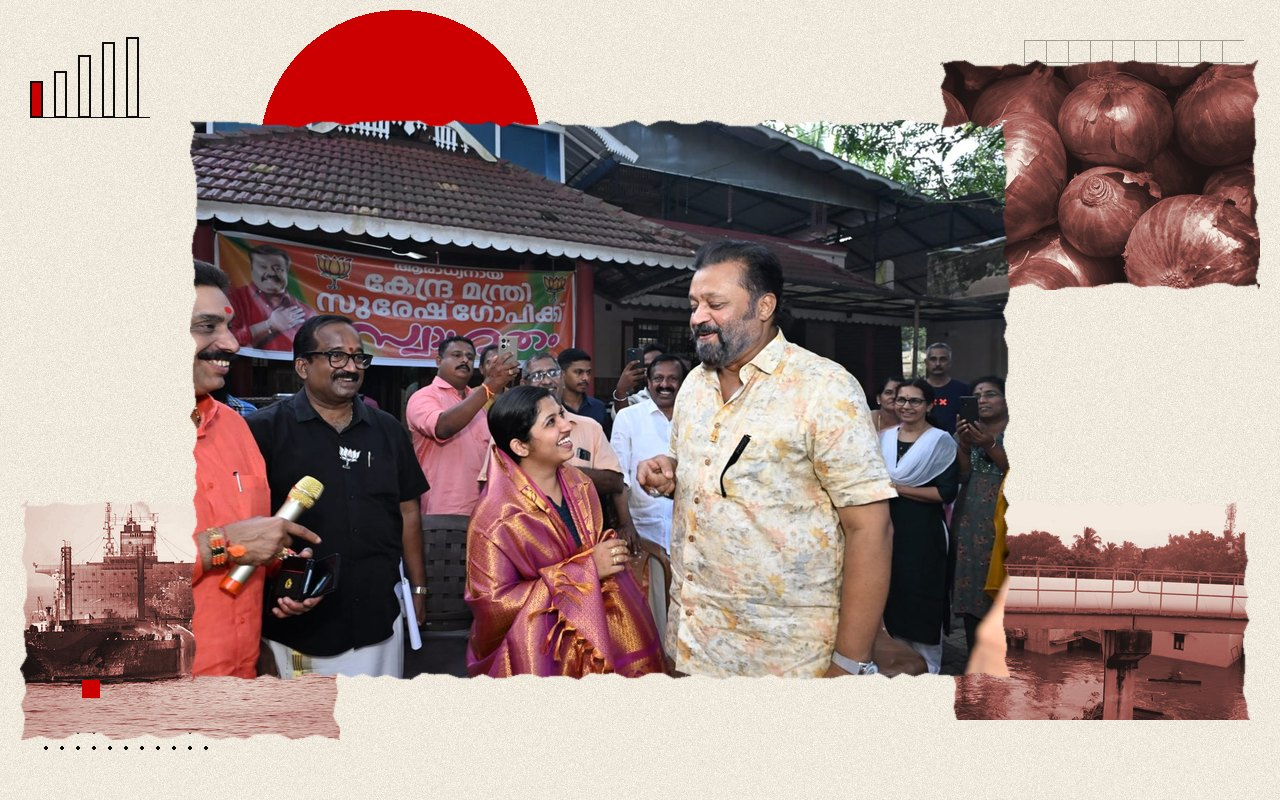
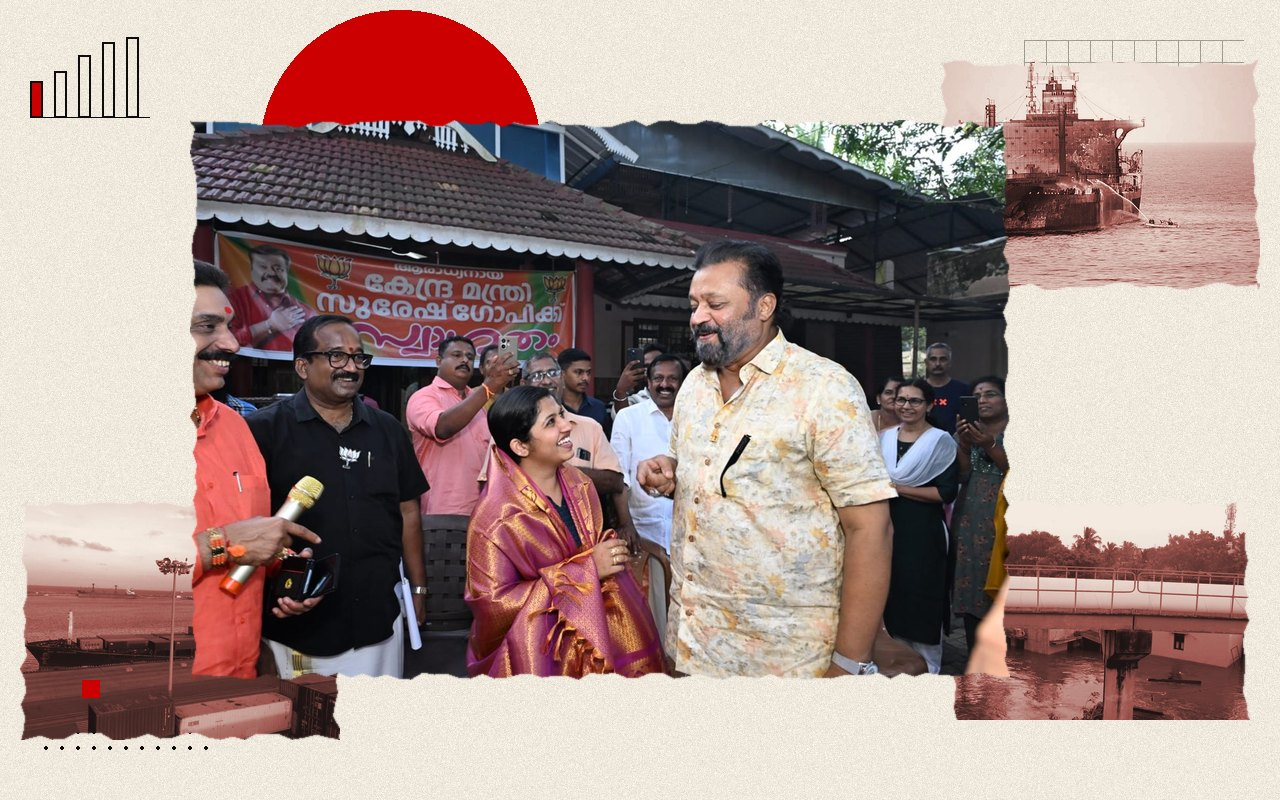
Hourly 08:00 IST (collage fix): Suresh Gopi collage without the onions tile
The look at the live collages found an onions tile (from the retail inflation story) behind the Suresh Gopi fuel price story. Its related list now leads with the tanker, BPCL refinery and ethanol stories (retail inflation and farm conference dropped from related); the collage was rebuilt with a tanker, a port and Chennai tiles. Published after 10:00 so the hourly homepage rotation passes (the 09:37 attempt matched the live top); England Adelaide ODI dropped from the headlines to clear a repeat.

Claude-Session: https://claude.ai/code/session_01C3zerVfLk1b1sp7mX4SPCD

Changed region(s): [[0.7188, 0.0625, 1.0, 0.375], [0.0, 0.625, 0.2812, 0.9375]]

diff --git a/content/hi/news/suresh-gopi-fuel-price-cut-not-possible-42000-crore-oil-losses.md b/content/hi/news/suresh-gopi-fuel-price-cut-not-possible-42000-crore-oil-losses.md
@@ -31,7 +31,7 @@ infographic:
     - {icon: gas-pump, value: "₹7", label: "120 डॉलर के तेल पर डीजल में बढ़ोतरी; ₹43 केंद्र ने सहे"}
     - {icon: warning, value: "$95.89", label: "13 नवंबर को ब्रेंट, युद्ध से पहले करीब 72 डॉलर"}
   source: "केंद्रीय मंत्री सुरेश गोपी, 16 नवंबर 2026; पीएमओ, 12 नवंबर 2026"
-related: [karnataka-31-2-per-cent-ethanol-claim-oil-companies-reject-e20-bis, modi-bharat-agriculture-conference-natural-farming-mother-earth-fertiliser, wpi-inflation-october-data-due-monday-rbi-december, retail-inflation-october-2026-6-09-two-year-high, bpcl-q2-profit-falls-21-per-cent-marketing-margins-lpg, hormuz-three-tankers-mines-predator-qeshm-brent-india]
+related: [hormuz-three-tankers-mines-predator-qeshm-brent-india, bpcl-q2-profit-falls-21-per-cent-marketing-margins-lpg, karnataka-31-2-per-cent-ethanol-claim-oil-companies-reject-e20-bis, wpi-inflation-october-data-due-monday-rbi-december]
 seo:
   title: "सुरेश गोपी: पेट्रोल-डीजल के दाम अभी नहीं घट सकते"
   description: "केंद्रीय मंत्री सुरेश गोपी ने 16 नवंबर को कहा कि तेल कंपनियों के 42,000 करोड़ रुपये के घाटे और आपूर्ति की अफरातफरी के कारण पेट्रोल-डीजल के दाम तुरंत नहीं घट सकते।"

diff --git a/content/en/news/suresh-gopi-fuel-price-cut-not-possible-42000-crore-oil-losses.md b/content/en/news/suresh-gopi-fuel-price-cut-not-possible-42000-crore-oil-losses.md
@@ -30,7 +30,7 @@ infographic:
     - {icon: gas-pump, value: "₹7", label: "diesel rise at $120 crude; ₹43 absorbed"}
     - {icon: warning, value: "$95.89", label: "Brent on November 13, against $72 before the war"}
   source: "Union minister Suresh Gopi, November 16, 2026; PMO, November 12, 2026"
-related: [karnataka-31-2-per-cent-ethanol-claim-oil-companies-reject-e20-bis, modi-bharat-agriculture-conference-natural-farming-mother-earth-fertiliser, wpi-inflation-october-data-due-monday-rbi-december, retail-inflation-october-2026-6-09-two-year-high, bpcl-q2-profit-falls-21-per-cent-marketing-margins-lpg, hormuz-three-tankers-mines-predator-qeshm-brent-india]
+related: [hormuz-three-tankers-mines-predator-qeshm-brent-india, bpcl-q2-profit-falls-21-per-cent-marketing-margins-lpg, karnataka-31-2-per-cent-ethanol-claim-oil-companies-reject-e20-bis, wpi-inflation-october-data-due-monday-rbi-december]
 seo:
   title: "Suresh Gopi: petrol, diesel price cut not possible now"
   description: "Union minister Suresh Gopi said on November 16 that petrol and diesel prices cannot be cut right away, citing ₹42,000 crore in oil company losses and supply chaos."
